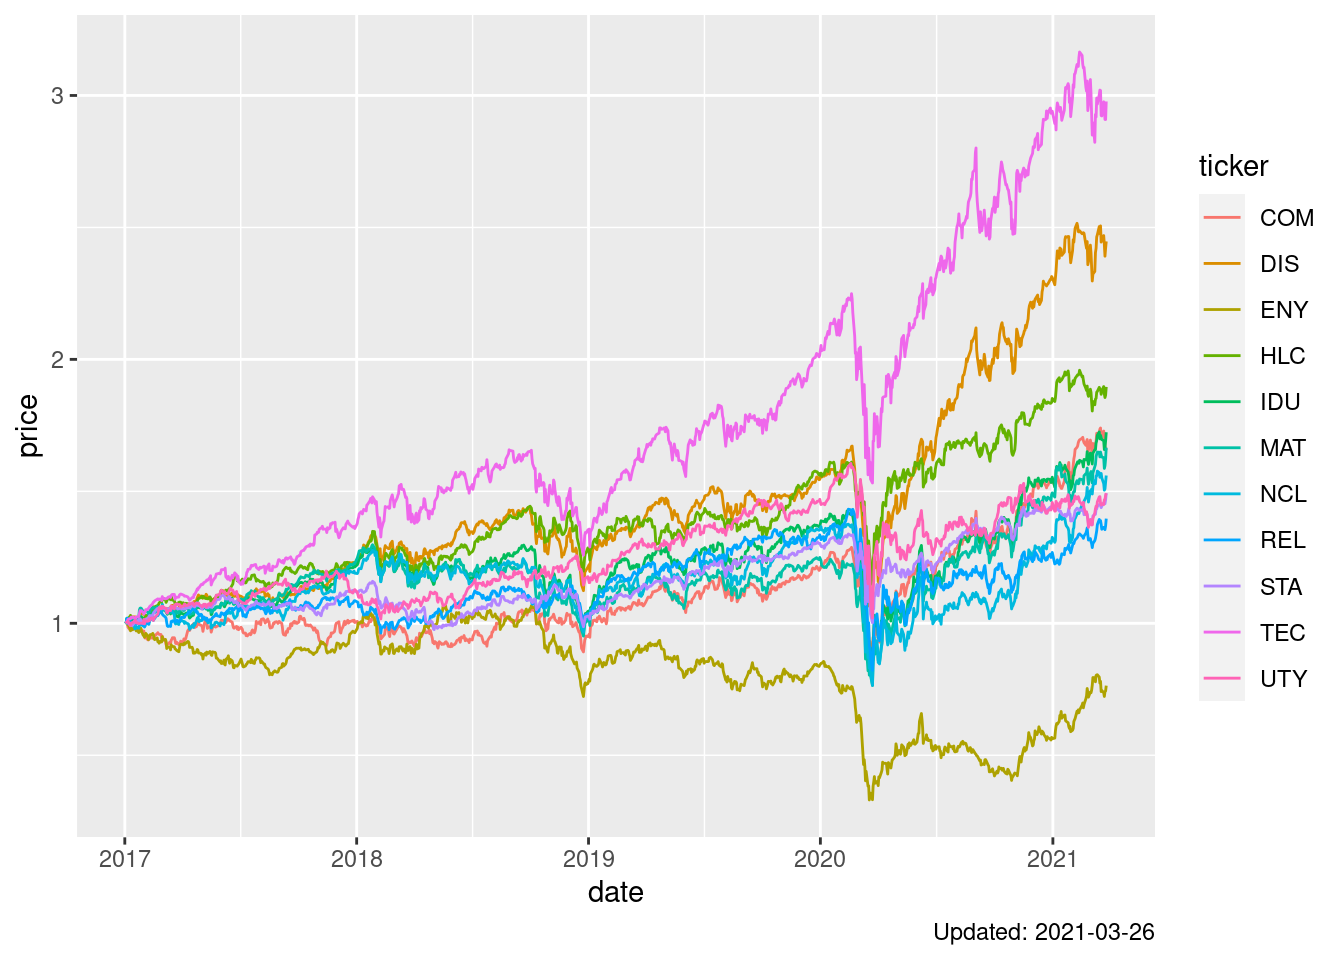
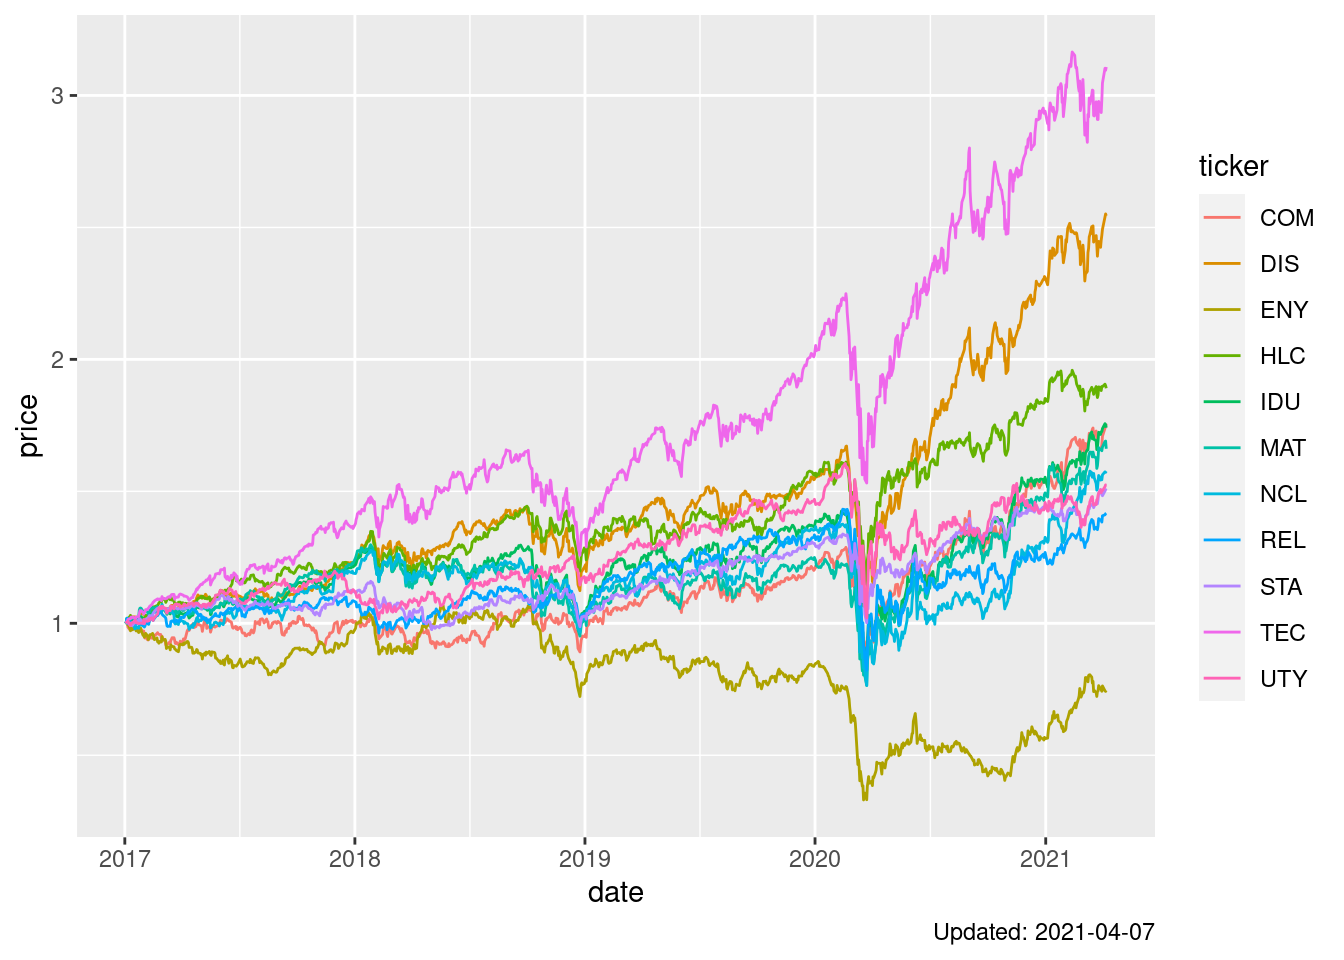
2021-04-08

diff --git a/_site/sectors.html b/_site/sectors.html
@@ -336,112 +336,112 @@ $(document).ready(function () {
 <tr class="odd">
 <td align="left">Energy</td>
 <td align="left">ENY</td>
-<td align="right">6.1</td>
-<td align="right">34.9</td>
-<td align="right">74.5</td>
-<td align="right">82.2</td>
-<td align="right">-15.4</td>
-<td align="right">-16.2</td>
+<td align="right">-6.1</td>
+<td align="right">20.1</td>
+<td align="right">69.9</td>
+<td align="right">67.7</td>
+<td align="right">-19.5</td>
+<td align="right">-17.4</td>
 </tr>
 <tr class="even">
 <td align="left">Materials</td>
 <td align="left">MAT</td>
-<td align="right">9.1</td>
-<td align="right">12.7</td>
-<td align="right">33.6</td>
-<td align="right">81.8</td>
-<td align="right">50.1</td>
-<td align="right">43.4</td>
+<td align="right">4.2</td>
+<td align="right">4.4</td>
+<td align="right">26.2</td>
+<td align="right">78.2</td>
+<td align="right">41.4</td>
+<td align="right">44.3</td>
 </tr>
 <tr class="odd">
 <td align="left">Industrials</td>
 <td align="left">IDU</td>
-<td align="right">7.6</td>
-<td align="right">11.5</td>
-<td align="right">32.0</td>
-<td align="right">67.3</td>
-<td align="right">43.3</td>
-<td align="right">44.5</td>
+<td align="right">5.0</td>
+<td align="right">9.2</td>
+<td align="right">27.0</td>
+<td align="right">72.0</td>
+<td align="right">38.8</td>
+<td align="right">49.0</td>
 </tr>
 <tr class="even">
 <td align="left">Utilities</td>
 <td align="left">UTY</td>
-<td align="right">9.5</td>
-<td align="right">4.7</td>
-<td align="right">11.4</td>
-<td align="right">18.6</td>
-<td align="right">13.1</td>
-<td align="right">40.0</td>
+<td align="right">7.4</td>
+<td align="right">5.5</td>
+<td align="right">7.2</td>
+<td align="right">21.5</td>
+<td align="right">18.0</td>
+<td align="right">40.2</td>
 </tr>
 <tr class="odd">
 <td align="left">Health Care</td>
 <td align="left">HLC</td>
-<td align="right">1.9</td>
-<td align="right">3.1</td>
-<td align="right">15.4</td>
-<td align="right">41.5</td>
-<td align="right">37.3</td>
-<td align="right">55.5</td>
+<td align="right">3.4</td>
+<td align="right">-1.2</td>
+<td align="right">10.3</td>
+<td align="right">36.4</td>
+<td align="right">35.4</td>
+<td align="right">58.8</td>
 </tr>
 <tr class="even">
 <td align="left">Financials</td>
 <td align="left">NCL</td>
-<td align="right">6.9</td>
-<td align="right">19.5</td>
-<td align="right">51.2</td>
-<td align="right">64.6</td>
-<td align="right">39.8</td>
-<td align="right">31.3</td>
+<td align="right">2.3</td>
+<td align="right">13.1</td>
+<td align="right">43.1</td>
+<td align="right">71.2</td>
+<td align="right">35.2</td>
+<td align="right">35.0</td>
 </tr>
 <tr class="odd">
 <td align="left">Consumer Discretionary</td>
 <td align="left">DIS</td>
-<td align="right">3.2</td>
+<td align="right">9.0</td>
 <td align="right">7.1</td>
-<td align="right">25.1</td>
-<td align="right">95.7</td>
-<td align="right">77.6</td>
-<td align="right">92.9</td>
+<td align="right">23.9</td>
+<td align="right">103.0</td>
+<td align="right">76.5</td>
+<td align="right">104.8</td>
 </tr>
 <tr class="even">
 <td align="left">Consumer Staples</td>
 <td align="left">STA</td>
-<td align="right">8.4</td>
-<td align="right">4.3</td>
-<td align="right">12.6</td>
-<td align="right">34.0</td>
-<td align="right">31.0</td>
-<td align="right">45.9</td>
+<td align="right">6.4</td>
+<td align="right">5.0</td>
+<td align="right">10.0</td>
+<td align="right">28.2</td>
+<td align="right">31.6</td>
+<td align="right">44.1</td>
 </tr>
 <tr class="odd">
 <td align="left">Information Technology</td>
 <td align="left">TEC</td>
-<td align="right">0.5</td>
-<td align="right">1.5</td>
-<td align="right">18.0</td>
-<td align="right">65.9</td>
-<td align="right">83.5</td>
-<td align="right">105.7</td>
+<td align="right">10.1</td>
+<td align="right">5.4</td>
+<td align="right">18.3</td>
+<td align="right">72.6</td>
+<td align="right">84.7</td>
+<td align="right">124.8</td>
 </tr>
 <tr class="even">
 <td align="left">Communication Services</td>
 <td align="left">COM</td>
-<td align="right">-0.1</td>
-<td align="right">8.7</td>
-<td align="right">28.8</td>
-<td align="right">66.9</td>
-<td align="right">53.9</td>
-<td align="right">78.1</td>
+<td align="right">5.9</td>
+<td align="right">13.2</td>
+<td align="right">33.7</td>
+<td align="right">75.6</td>
+<td align="right">60.0</td>
+<td align="right">87.8</td>
 </tr>
 <tr class="odd">
 <td align="left">Real Estate</td>
 <td align="left">REL</td>
-<td align="right">6.2</td>
-<td align="right">11.5</td>
-<td align="right">22.4</td>
-<td align="right">37.8</td>
-<td align="right">15.7</td>
-<td align="right">40.3</td>
+<td align="right">7.9</td>
+<td align="right">15.3</td>
+<td align="right">17.6</td>
+<td align="right">40.2</td>
+<td align="right">16.1</td>
+<td align="right">39.4</td>
 </tr>
 </tbody>
 </table>

diff --git a/_site/styles.html b/_site/styles.html
@@ -326,42 +326,42 @@ $(document).ready(function () {
 <tr class="odd">
 <td align="left">SV</td>
 <td align="left">Small Value</td>
-<td align="right">6.0</td>
-<td align="right">21.5</td>
-<td align="right">66.4</td>
-<td align="right">93.4</td>
-<td align="right">40.6</td>
-<td align="right">39.3</td>
+<td align="right">-0.2</td>
+<td align="right">13.5</td>
+<td align="right">50.8</td>
+<td align="right">100.3</td>
+<td align="right">35.3</td>
+<td align="right">40.4</td>
 </tr>
 <tr class="even">
 <td align="left">SG</td>
 <td align="left">Small Growth</td>
-<td align="right">-3.6</td>
-<td align="right">1.4</td>
-<td align="right">37.8</td>
-<td align="right">86.3</td>
-<td align="right">55.5</td>
-<td align="right">57.7</td>
+<td align="right">2.4</td>
+<td align="right">-0.4</td>
+<td align="right">27.7</td>
+<td align="right">93.1</td>
+<td align="right">51.6</td>
+<td align="right">63.3</td>
 </tr>
 <tr class="odd">
 <td align="left">LV</td>
 <td align="left">Large Value</td>
-<td align="right">6.5</td>
-<td align="right">13.3</td>
-<td align="right">32.3</td>
-<td align="right">54.3</td>
-<td align="right">30.5</td>
-<td align="right">37.5</td>
+<td align="right">3.9</td>
+<td align="right">9.9</td>
+<td align="right">27.9</td>
+<td align="right">54.2</td>
+<td align="right">28.9</td>
+<td align="right">40.4</td>
 </tr>
 <tr class="even">
 <td align="left">LG</td>
 <td align="left">Large Growth</td>
-<td align="right">1.0</td>
-<td align="right">1.0</td>
-<td align="right">14.1</td>
-<td align="right">59.4</td>
+<td align="right">9.7</td>
+<td align="right">4.3</td>
+<td align="right">14.9</td>
 <td align="right">64.0</td>
-<td align="right">80.8</td>
+<td align="right">65.8</td>
+<td align="right">94.4</td>
 </tr>
 </tbody>
 </table>
